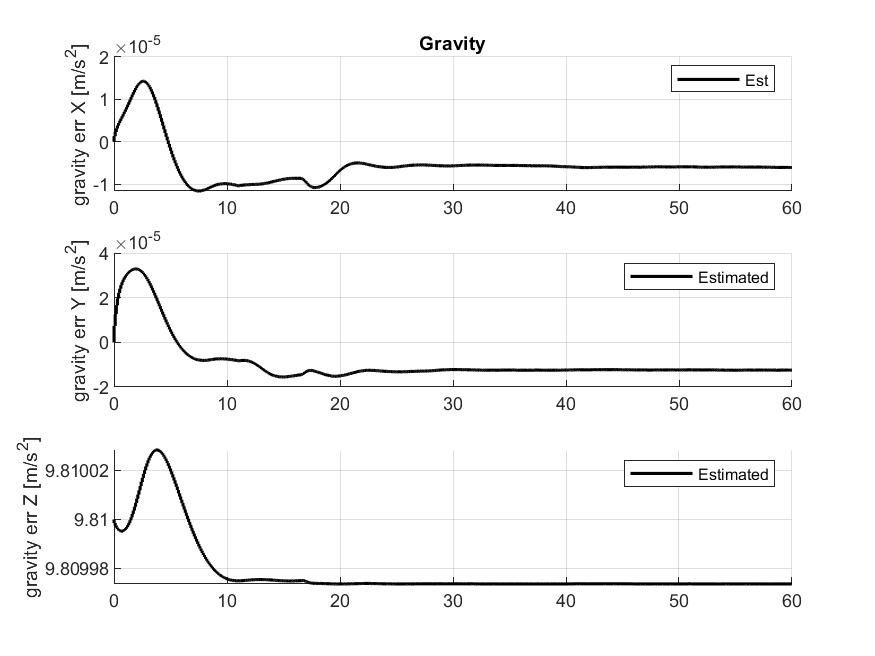
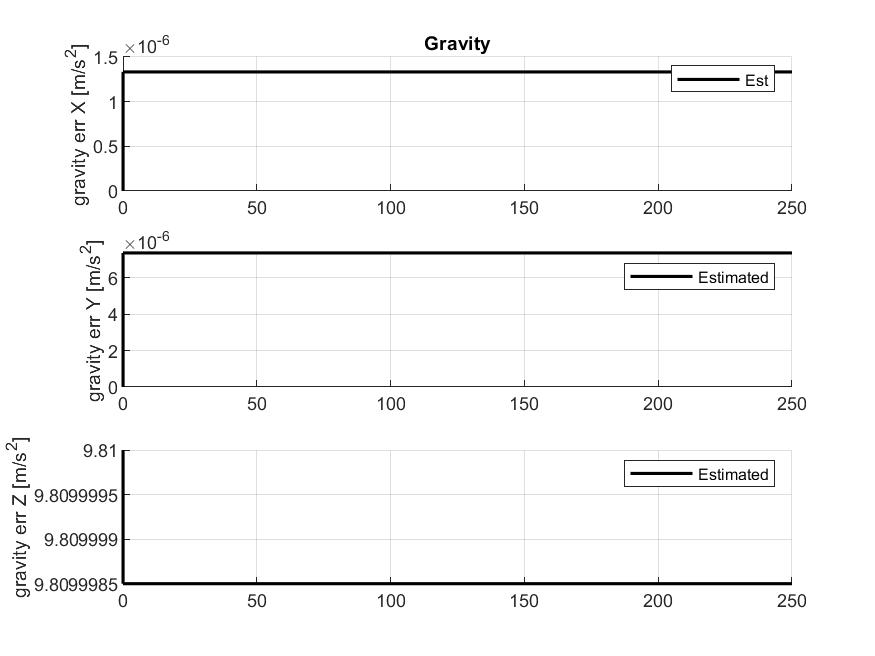
Remain at stand still longer to see if things convverge... didn't really do it, but performance did improve a little. Something is wrong with acc i think, not sure

diff --git a/ESKF/ErrorStateKalman_sola.m b/ESKF/ErrorStateKalman_sola.m
@@ -97,7 +97,7 @@ function [delta_x, E] = ErrorStateKalman_sola(race_started, r_b_1, r_b_2, r_b_3,
           
           H_vec = [Z3  Z3  Z3  -R_nb_hat*Smtrx(r_b_2-r_b_1)  Z3  Z3];
           
-          H_acc = [Z3  Z3  I3  -Smtrx(R_nb_hat' * g_n_nb)  Z3  -R_nb_hat'];
+          H_acc = [Z3  Z3  Z3  Z3  Z3  Z3]; 
 
           % Ground Speed           
           H_gss_pos = [ 0, 0, 0];
@@ -109,21 +109,22 @@ function [delta_x, E] = ErrorStateKalman_sola(race_started, r_b_1, r_b_2, r_b_3,
           
           H_gss = [H_gss_pos  H_gss_vel  H_gss_bacc  H_gss_att  H_gss_bars  H_gss_g];
           
-%           if (~race_started)
-%             H_gss = zeros(1,18);
-%           end
+          if (~race_started)
+            H_gss = zeros(1,18);
+            H_acc = [Z3  Z3  I3  -Smtrx(R_nb_hat' * g_n_nb)  Z3  -R_nb_hat'];
+          end
           
-          H = [H_gnss1 ; H_gnss2 ; H_vec ; H_acc ; H_gss];
+          H = [H_gnss1 ; H_gnss2 ; H_gss ; H_vec ; H_acc];
           
     
-          
-          H = [        I3         Z3          Z3        -R_nb_hat*Smtrx(r_b_1)          Z3          Z3   % gnss_1
-                       I3         Z3          Z3        -R_nb_hat*Smtrx(r_b_2)          Z3          Z3   % gnss_2
-                H_gss_pos  H_gss_vel  H_gss_bacc                     H_gss_att  H_gss_bars     H_gss_g % ground speed
-%                        Z3         Z3          Z3                      I3          Z3       Z3]; % delta_theta
-                       Z3         Z3          Z3  -R_nb_hat*Smtrx(r_b_2-r_b_1)          Z3          Z3   % baseline
-                       Z3         Z3          I3     -Smtrx(R_nb_hat' * g_n_nb)          Z3  -R_nb_hat']; % acc
-                   
+%           
+%           H = [        I3         Z3          Z3        -R_nb_hat*Smtrx(r_b_1)          Z3          Z3   % gnss_1
+%                        I3         Z3          Z3        -R_nb_hat*Smtrx(r_b_2)          Z3          Z3   % gnss_2
+%                 H_gss_pos  H_gss_vel  H_gss_bacc                     H_gss_att  H_gss_bars     H_gss_g % ground speed
+% %                        Z3         Z3          Z3                      I3          Z3       Z3]; % delta_theta
+%                        Z3         Z3          Z3  -R_nb_hat*Smtrx(r_b_2-r_b_1)          Z3          Z3   % baseline
+%                        Z3         Z3          I3     -Smtrx(R_nb_hat' * g_n_nb)          Z3  -R_nb_hat']; % acc
+%                    
 %           if (race_started == true)
 %              H = H(1:end-3, :);
 %              if (size(R,1) == 13)
@@ -137,7 +138,13 @@ function [delta_x, E] = ErrorStateKalman_sola(race_started, r_b_1, r_b_2, r_b_3,
 
           
          % Discrete-time model
-         Ad = eye(18) + h * A;
+         
+         if (~race_started)
+             Ad = blkdiag(I3,I3,I3,I3,I3,Z3) + h * A;
+         else
+             Ad = eye(18) + h * A;
+         end
+
         
          % KF gain
          K = P_hat * H' / (H * P_hat * H' + R);

diff --git a/ESKF/MESKF_sola.m b/ESKF/MESKF_sola.m
@@ -8,7 +8,7 @@ rad2deg = 180/pi;
 Z3 = zeros(3,3);
 I3 = eye(3);
 
-simtime = 60;
+simtime = 250;
 f_samp  = 100;          %imu frequency
 f_low   = 10;           %aiding frequency
 h       = 1/f_samp;     %sampling time
@@ -124,7 +124,7 @@ for k = 1:N
         count = 0;
         
         % noisy measurements
-        p_n_nb(1:3,k) = p_n_nb(1:3,k) +  0.001 * wgn(3, 1, 1);
+        p_meas(1:3,k) = p_n_nb(1:3,k) +  0.001 * wgn(3, 1, 1);
         q_meas = q_nb(1:4,k) + 0.00005 * wgn(4, 1, 1);
         
         q_conj = quatconj(q_n_ins')';
@@ -161,7 +161,7 @@ for k = 1:N
         bl_hat = R_nb_ins * (r_b_2 - r_b_1);
         
         % Stand-still acceleration
-        f_imu = -(R_nb_t)' * g_n_nb + bacc_b_nb(1:3,k);
+        f_imu = -(R_nb_t)' * g_n_nb + bacc_b_nb(:,k);
         f_hat = -(R_nb_ins)' * g_n_hat + bacc_b_ins;
         
         
@@ -170,7 +170,7 @@ for k = 1:N
 %         delta_y = [(p_gnss_1 - p_hat_1) ; (p_gnss_2 - p_hat_2); (p_gnss_3 - p_hat_3); delta_theta]; 
 %         delta_y = [(p_gnss_1 - p_hat_1) ; (p_gnss_2 - p_hat_2); delta_theta]; 
 %         delta_y = [(p_gnss_1 - p_hat_1); (p_gnss_2 - p_hat_2)];
-        delta_y = [(p_gnss_1 - p_hat_1) ; (p_gnss_2 - p_hat_2) ; (v_gss - v_hat) ; (bl - bl_hat); (f_imu - f_hat)];
+        delta_y = [(p_gnss_1 - p_hat_1) ; (p_gnss_2 - p_hat_2) ; (v_gss - v_hat) ; (bl - bl_hat) ; (f_imu - f_hat)];
         
 %         if (race_started == false)
 %             delta_y = [delta_y ; (f_imu - f_hat)];
@@ -179,6 +179,8 @@ for k = 1:N
         % compute error state with ESKF
         [delta_x, E_prev] = ErrorStateKalman_sola(race_started, r_b_1, r_b_2,r_b_3, E_prev, delta_y, R_nb_ins, f_low, 0, f_b_imu(:,k), omega_b_imu(:,k), g_n_hat, x_ins);
        
+        disp(delta_x);
+        
         % inject error state into nominal state
         x_ins(1:9) = x_ins(1:9) + delta_x(1:9);
         x_ins(14:16) = x_ins(14:16) + delta_x(13:15);

diff --git a/ESKF/SkidPadSim.m b/ESKF/SkidPadSim.m
@@ -19,7 +19,7 @@ v_abs = (2 * pi * R) / t_goal;
 
 g = 9.81;
 t = 0;
-count = 0;
+count = 1;
 
 
 % Allocate data
@@ -80,14 +80,14 @@ for k = 1:N
     
     time(k) = t;
     
-    if (t > 2*t_goal) && (start == false)
+    if (t > 25*t_goal) && (start == false)
         omega_b_nb = [0 0 0]';
         a_b_nb = [v_abs/t_goal 0 0]';
         start = true;
     end
     
     
-    if (t > 3*t_goal) && (skid_flag == false)
+    if (t > 26*t_goal) && (skid_flag == false)
         omega_b_nb = [0 0 pi/(t_goal/2)]';
         a_b_nb = [0 (v_abs^2)/R 0]';
         skid_flag = true;
